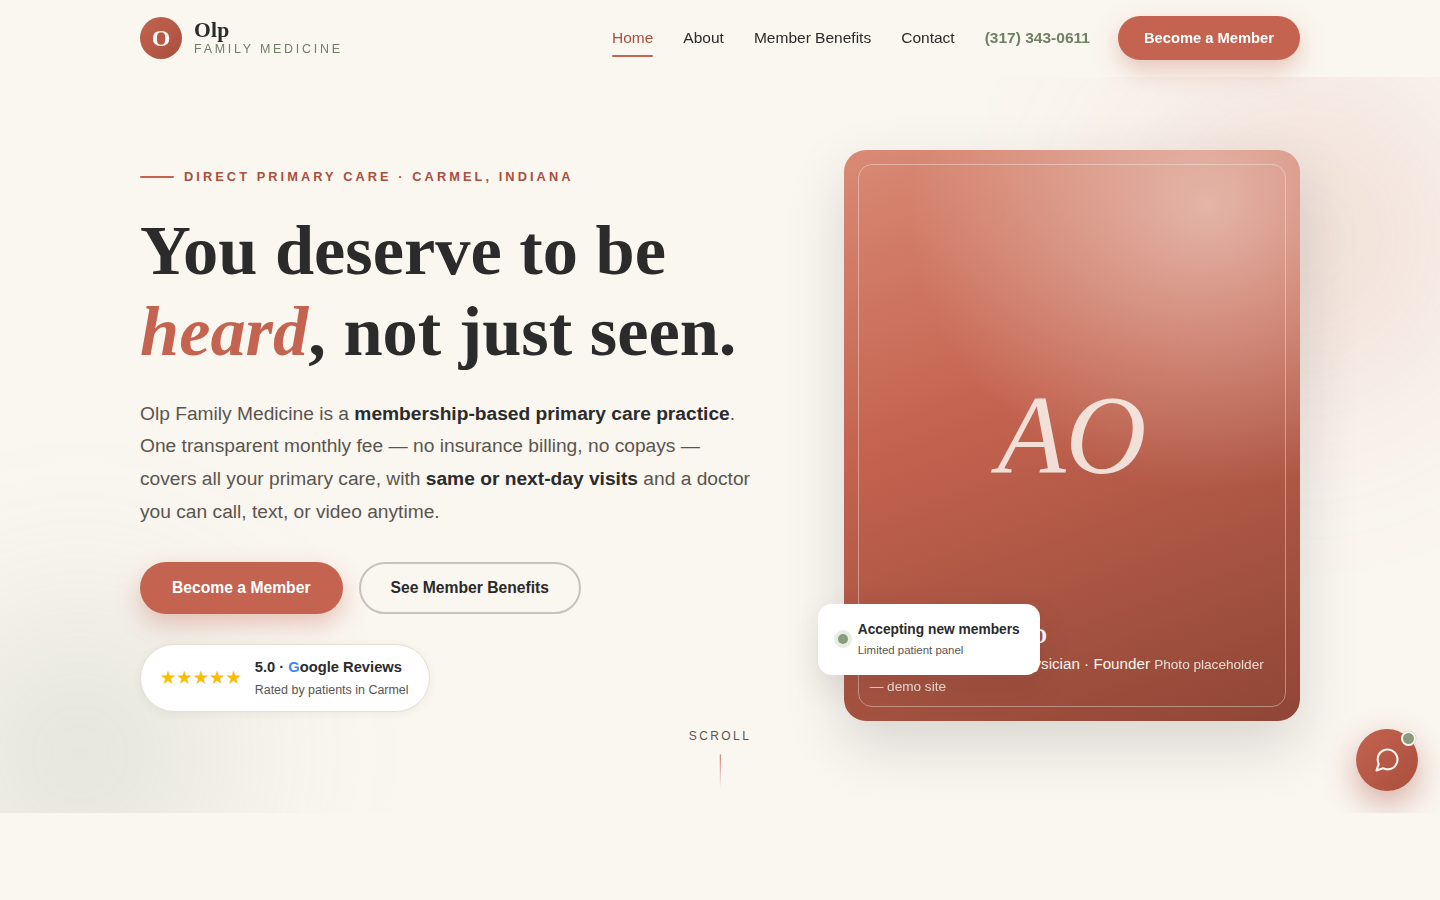
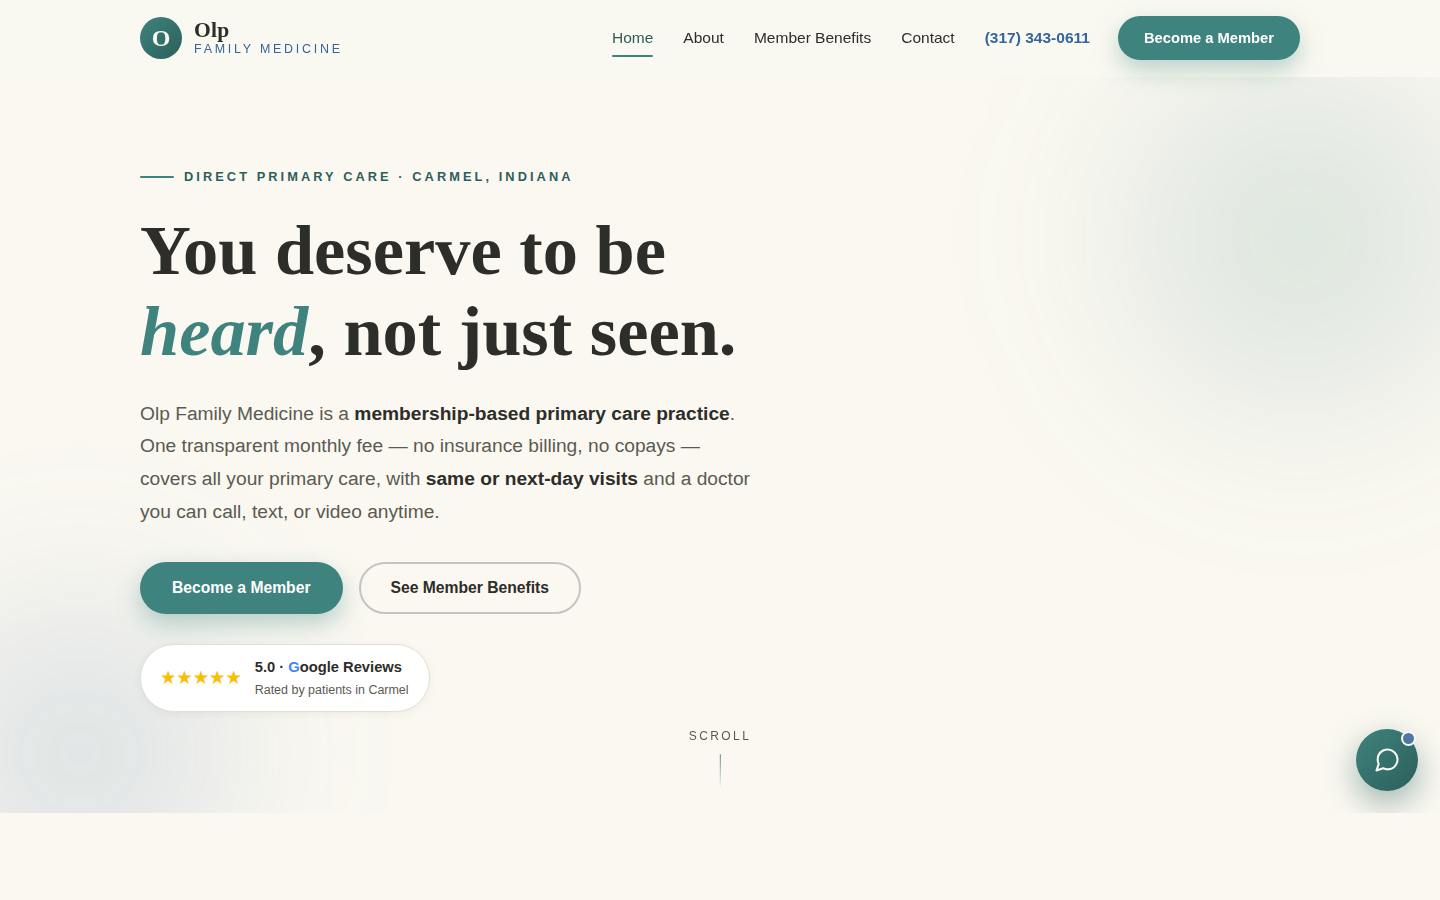
Rebrand demo to the practice's real palette
Colors extracted from olpfamilymedicine.com's Squarespace theme:
teal accent, steel-blue dark accent, soft gold highlights, warm
charcoal/cream neutrals. Body font switched to Open Sans to match
the brand; serif headings kept. README screenshot refreshed.

Claude-Session: https://claude.ai/code/session_01J4TR2SDL7TBfnegVc8ipSi

diff --git a/olp-demo/css/styles.css b/olp-demo/css/styles.css
@@ -1,21 +1,21 @@
 /* ==========================================================================
    Olp Family Medicine — Pavlina demo site
-   Palette: terracotta #C4634F · cream #FAF6F0 · charcoal #2B2B2B · sage #8A9B7E
+   Palette (from olpfamilymedicine.com brand): teal #3E837E · steel blue #34659B · soft gold #EDD286 · warm charcoal #2D2D2A · warm cream #FAF8F1
    ========================================================================== */
 
 :root {
-  --terracotta: #C4634F;
-  --terracotta-dark: #A94F3D;
-  --terracotta-soft: #F3E2DC;
-  --cream: #FAF6F0;
-  --cream-deep: #F2EADF;
-  --charcoal: #2B2B2B;
-  --ink-soft: #5A554E;
-  --sage: #8A9B7E;
-  --sage-dark: #6F8163;
-  --sage-soft: #E8ECE3;
+  --terracotta: #3E837E;
+  --terracotta-dark: #2C5F5A;
+  --terracotta-soft: #DEEDEB;
+  --cream: #FAF8F1;
+  --cream-deep: #F0EBDF;
+  --charcoal: #2D2D2A;
+  --ink-soft: #5B5A52;
+  --sage: #4E77A8;
+  --sage-dark: #34659B;
+  --sage-soft: #E4EBF3;
   --white: #FFFFFF;
-  --border: #E7DED2;
+  --border: #E3DFD2;
   --gold-star: #FBBC04;
   --shadow-sm: 0 2px 10px rgba(43, 43, 43, 0.06);
   --shadow-md: 0 12px 32px rgba(43, 43, 43, 0.10);
@@ -23,7 +23,7 @@
   --radius: 14px;
   --radius-lg: 22px;
   --font-serif: "Cormorant Garamond", "Libre Caslon Text", Georgia, serif;
-  --font-sans: "Inter", -apple-system, BlinkMacSystemFont, "Segoe UI", sans-serif;
+  --font-sans: "Open Sans", "Inter", -apple-system, BlinkMacSystemFont, "Segoe UI", sans-serif;
   --header-h: 76px;
 }
 
@@ -104,7 +104,7 @@ a:hover { color: var(--terracotta-dark); }
 .btn-primary {
   background: var(--terracotta);
   color: var(--white);
-  box-shadow: 0 10px 24px rgba(196, 99, 79, 0.35);
+  box-shadow: 0 10px 24px rgba(62, 131, 126, 0.35);
 }
 .btn-primary:hover { background: var(--terracotta-dark); color: var(--white); }
 
@@ -139,7 +139,7 @@ a:hover { color: var(--terracotta-dark); }
   position: sticky;
   top: 0;
   z-index: 200;
-  background: rgba(250, 246, 240, 0.92);
+  background: rgba(250, 248, 241, 0.92);
   backdrop-filter: blur(12px);
   -webkit-backdrop-filter: blur(12px);
   border-bottom: 1px solid transparent;
@@ -301,14 +301,14 @@ a:hover { color: var(--terracotta-dark); }
   height: 560px;
   right: -140px;
   top: -120px;
-  background: radial-gradient(circle, rgba(196, 99, 79, 0.20), transparent 65%);
+  background: radial-gradient(circle, rgba(62, 131, 126, 0.20), transparent 65%);
 }
 .hero::after {
   width: 480px;
   height: 480px;
   left: -160px;
   bottom: -180px;
-  background: radial-gradient(circle, rgba(138, 155, 126, 0.25), transparent 65%);
+  background: radial-gradient(circle, rgba(78, 119, 168, 0.22), transparent 65%);
 }
 
 .hero-grid {
@@ -393,7 +393,7 @@ a:hover { color: var(--terracotta-dark); }
   aspect-ratio: 4 / 5;
   background:
     radial-gradient(120% 90% at 80% 10%, rgba(250, 246, 240, 0.5), transparent 55%),
-    linear-gradient(160deg, #D98A75 0%, var(--terracotta) 42%, #8F4636 100%);
+    linear-gradient(160deg, #8FC0BC 0%, var(--terracotta) 42%, #24504C 100%);
   box-shadow: var(--shadow-lg);
 }
 .portrait-card::after {
@@ -434,12 +434,12 @@ a:hover { color: var(--terracotta-dark); }
 .portrait-card.sage {
   background:
     radial-gradient(120% 90% at 80% 10%, rgba(250, 246, 240, 0.45), transparent 55%),
-    linear-gradient(160deg, #A7B69B 0%, var(--sage) 45%, #5C6E51 100%);
+    linear-gradient(160deg, #7FA3C9 0%, var(--sage) 45%, #24476E 100%);
 }
 .portrait-card.cream {
   background:
     radial-gradient(120% 90% at 20% 10%, rgba(255, 255, 255, 0.7), transparent 55%),
-    linear-gradient(160deg, #EFE3D2 0%, #DCC9AE 55%, #C0A987 100%);
+    linear-gradient(160deg, #F2E7CB 0%, #E8D49A 55%, #C9A95C 100%);
 }
 .portrait-card.cream .portrait-initials { color: rgba(90, 85, 78, 0.5); }
 .portrait-card.cream figcaption { color: var(--charcoal); }
@@ -696,12 +696,12 @@ a:hover { color: var(--terracotta-dark); }
 .split-visual.grad-terracotta {
   background:
     radial-gradient(100% 100% at 100% 0%, rgba(250, 246, 240, 0.4), transparent 55%),
-    linear-gradient(150deg, #DE9A85 0%, var(--terracotta) 55%, #93402F 100%);
+    linear-gradient(150deg, #8FC0BC 0%, var(--terracotta) 55%, #24504C 100%);
 }
 .split-visual.grad-sage {
   background:
     radial-gradient(100% 100% at 0% 0%, rgba(250, 246, 240, 0.45), transparent 55%),
-    linear-gradient(150deg, #B3C2A6 0%, var(--sage) 55%, #55684B 100%);
+    linear-gradient(150deg, #86AACD 0%, var(--sage) 55%, #274B72 100%);
 }
 .split-visual .visual-label {
   position: absolute;
@@ -807,12 +807,12 @@ a:hover { color: var(--terracotta-dark); }
   font-size: 1rem;
   flex: none;
 }
-.avatar.a1 { background: #C4634F; }
-.avatar.a2 { background: #8A9B7E; }
-.avatar.a3 { background: #B08968; }
+.avatar.a1 { background: #3E837E; }
+.avatar.a2 { background: #4E77A8; }
+.avatar.a3 { background: #C9A95C; }
 .avatar.a4 { background: #7D8CA3; }
-.avatar.a5 { background: #A9784F; }
-.avatar.a6 { background: #6F8163; }
+.avatar.a5 { background: #8A6D2F; }
+.avatar.a6 { background: #2E5988; }
 
 .review-top .who strong { display: block; font-size: 0.95rem; color: var(--charcoal); }
 .review-top .who span { font-size: 0.8rem; color: var(--ink-soft); }
@@ -858,7 +858,7 @@ a:hover { color: var(--terracotta-dark); }
   position: relative;
   background:
     radial-gradient(110% 140% at 90% 0%, rgba(250, 246, 240, 0.12), transparent 55%),
-    linear-gradient(140deg, #A94F3D 0%, var(--terracotta) 55%, #B4664F 100%);
+    linear-gradient(140deg, #2C5F5A 0%, var(--terracotta) 55%, #46908A 100%);
   color: var(--cream);
   text-align: center;
   padding: clamp(72px, 9vw, 110px) 0;
@@ -898,7 +898,7 @@ a:hover { color: var(--terracotta-dark); }
   border-radius: 50%;
   right: -160px;
   top: -220px;
-  background: radial-gradient(circle, rgba(196, 99, 79, 0.14), transparent 65%);
+  background: radial-gradient(circle, rgba(62, 131, 126, 0.14), transparent 65%);
   filter: blur(60px);
 }
 .page-hero h1 { font-size: clamp(2.4rem, 5vw, 3.6rem); margin-bottom: 18px; }
@@ -1003,8 +1003,8 @@ a:hover { color: var(--terracotta-dark); }
   font-style: italic;
   color: rgba(250, 246, 240, 0.9);
 }
-.team-card .team-visual.v-sage { background: linear-gradient(140deg, #A7B69B, var(--sage) 55%, #5C6E51); }
-.team-card .team-visual.v-clay { background: linear-gradient(140deg, #D8A18E, #B87A62 55%, #97503C); }
+.team-card .team-visual.v-sage { background: linear-gradient(140deg, #7FA3C9, var(--sage) 55%, #24476E); }
+.team-card .team-visual.v-clay { background: linear-gradient(140deg, #8FC0BC, #5FA09A 55%, #2C5F5A); }
 .team-card .team-body { padding: 30px 30px 34px; }
 .team-card h3 { margin-bottom: 4px; }
 .team-card .role {
@@ -1098,12 +1098,12 @@ a:hover { color: var(--terracotta-dark); }
 .addon-card.clay {
   background:
     radial-gradient(120% 110% at 100% 0%, rgba(250, 246, 240, 0.18), transparent 55%),
-    linear-gradient(150deg, #B4664F 0%, #9C4B37 100%);
+    linear-gradient(150deg, #46908A 0%, #2C5F5A 100%);
 }
 .addon-card.moss {
   background:
     radial-gradient(120% 110% at 0% 0%, rgba(250, 246, 240, 0.18), transparent 55%),
-    linear-gradient(150deg, #7D8F70 0%, #56684B 100%);
+    linear-gradient(150deg, #4E77A8 0%, #2E5988 100%);
 }
 .addon-card .pill {
   align-self: flex-start;
@@ -1252,7 +1252,7 @@ a:hover { color: var(--terracotta-dark); }
 .form-field textarea:focus {
   outline: none;
   border-color: var(--terracotta);
-  box-shadow: 0 0 0 3px rgba(196, 99, 79, 0.15);
+  box-shadow: 0 0 0 3px rgba(62, 131, 126, 0.15);
 }
 .form-note { font-size: 0.8rem; color: var(--ink-soft); margin-top: 14px; }
 
@@ -1276,9 +1276,9 @@ a:hover { color: var(--terracotta-dark); }
   position: relative;
   overflow: hidden;
   background:
-    linear-gradient(rgba(138, 155, 126, 0.12) 1px, transparent 1px),
-    linear-gradient(90deg, rgba(138, 155, 126, 0.12) 1px, transparent 1px),
-    linear-gradient(150deg, #EDE9E0 0%, #DFE4D7 100%);
+    linear-gradient(rgba(78, 119, 168, 0.10) 1px, transparent 1px),
+    linear-gradient(90deg, rgba(78, 119, 168, 0.10) 1px, transparent 1px),
+    linear-gradient(150deg, #EDE9E0 0%, #DCE4EA 100%);
   background-size: 44px 44px, 44px 44px, cover;
   border: 1px solid var(--border);
   display: grid;
@@ -1392,7 +1392,7 @@ a:hover { color: var(--terracotta-dark); }
   color: var(--cream);
   display: grid;
   place-items: center;
-  box-shadow: 0 12px 32px rgba(169, 79, 61, 0.45);
+  box-shadow: 0 12px 32px rgba(44, 95, 90, 0.45);
   transition: transform 0.25s ease, box-shadow 0.25s ease;
 }
 .aria-launcher:hover { transform: scale(1.07); }
@@ -1606,7 +1606,7 @@ a:hover { color: var(--terracotta-dark); }
 .aria-input-row input:focus {
   outline: none;
   border-color: var(--terracotta);
-  box-shadow: 0 0 0 3px rgba(196, 99, 79, 0.14);
+  box-shadow: 0 0 0 3px rgba(62, 131, 126, 0.14);
 }
 .aria-send {
   width: 46px;

diff --git a/olp-demo/benefits.html b/olp-demo/benefits.html
@@ -7,7 +7,7 @@
   <meta name="description" content="What your Olp Family Medicine membership includes: same-day visits, 30–60 minute appointments, direct access to your doctor, annual labs, and virtual visits — plus weight loss support and hormone therapy add-ons. Direct Primary Care in Carmel, IN." />
   <link rel="preconnect" href="https://fonts.googleapis.com" />
   <link rel="preconnect" href="https://fonts.gstatic.com" crossorigin />
-  <link href="https://fonts.googleapis.com/css2?family=Cormorant+Garamond:ital,wght@0,400;0,500;0,600;0,700;1,400;1,500;1,600&family=Inter:wght@400;500;600;700&display=swap" rel="stylesheet" />
+  <link href="https://fonts.googleapis.com/css2?family=Cormorant+Garamond:ital,wght@0,400;0,500;0,600;0,700;1,400;1,500;1,600&family=Open+Sans:wght@400;500;600;700&display=swap" rel="stylesheet" />
   <link rel="stylesheet" href="css/styles.css" />
   <script type="application/ld+json">
   {

diff --git a/olp-demo/index.html b/olp-demo/index.html
@@ -7,7 +7,7 @@
   <meta name="description" content="Olp Family Medicine is a membership-based Direct Primary Care practice in Carmel, Indiana. One transparent monthly fee, same-day visits, 30–60 minute appointments, and direct access to Dr. Ashlie Olp, MD. No insurance billing, no copays." />
   <link rel="preconnect" href="https://fonts.googleapis.com" />
   <link rel="preconnect" href="https://fonts.gstatic.com" crossorigin />
-  <link href="https://fonts.googleapis.com/css2?family=Cormorant+Garamond:ital,wght@0,400;0,500;0,600;0,700;1,400;1,500;1,600&family=Inter:wght@400;500;600;700&display=swap" rel="stylesheet" />
+  <link href="https://fonts.googleapis.com/css2?family=Cormorant+Garamond:ital,wght@0,400;0,500;0,600;0,700;1,400;1,500;1,600&family=Open+Sans:wght@400;500;600;700&display=swap" rel="stylesheet" />
   <link rel="stylesheet" href="css/styles.css" />
   <script type="application/ld+json">
   {

diff --git a/olp-demo/about.html b/olp-demo/about.html
@@ -7,7 +7,7 @@
   <meta name="description" content="Meet Dr. Ashlie Olp, MD — board-certified family physician, Carmel native, and marathon champion who founded Olp Family Medicine in 2017 after her own frustrating experience as a patient. Meet the team: Molly, NP and Candi, MA." />
   <link rel="preconnect" href="https://fonts.googleapis.com" />
   <link rel="preconnect" href="https://fonts.gstatic.com" crossorigin />
-  <link href="https://fonts.googleapis.com/css2?family=Cormorant+Garamond:ital,wght@0,400;0,500;0,600;0,700;1,400;1,500;1,600&family=Inter:wght@400;500;600;700&display=swap" rel="stylesheet" />
+  <link href="https://fonts.googleapis.com/css2?family=Cormorant+Garamond:ital,wght@0,400;0,500;0,600;0,700;1,400;1,500;1,600&family=Open+Sans:wght@400;500;600;700&display=swap" rel="stylesheet" />
   <link rel="stylesheet" href="css/styles.css" />
   <script type="application/ld+json">
   {

diff --git a/olp-demo/contact.html b/olp-demo/contact.html
@@ -7,7 +7,7 @@
   <meta name="description" content="Contact Olp Family Medicine in Carmel, Indiana. Call (317) 343-0611, email info@olpfamilymedicine.com, or visit us at 221 N Rangeline Rd, Carmel, IN 46032. Become a Direct Primary Care member today." />
   <link rel="preconnect" href="https://fonts.googleapis.com" />
   <link rel="preconnect" href="https://fonts.gstatic.com" crossorigin />
-  <link href="https://fonts.googleapis.com/css2?family=Cormorant+Garamond:ital,wght@0,400;0,500;0,600;0,700;1,400;1,500;1,600&family=Inter:wght@400;500;600;700&display=swap" rel="stylesheet" />
+  <link href="https://fonts.googleapis.com/css2?family=Cormorant+Garamond:ital,wght@0,400;0,500;0,600;0,700;1,400;1,500;1,600&family=Open+Sans:wght@400;500;600;700&display=swap" rel="stylesheet" />
   <link rel="stylesheet" href="css/styles.css" />
   <script type="application/ld+json">
   {

diff --git a/README.md b/README.md
@@ -47,7 +47,7 @@ Alternative deploys: drag the `olp-demo` folder onto [Netlify Drop](https://app.
 - Demo pricing and reviews are illustrative and labeled as such on the site.
 - The contact form and review button are intentionally non-functional (demo).
 - Photos are CSS gradient placeholders — swap in real imagery for production.
-- Design: terracotta / cream / charcoal / sage palette, Cormorant Garamond + Inter type.
+- Design: matched to the practice's real brand (extracted from olpfamilymedicine.com) — teal / steel blue / soft gold with warm neutrals, Cormorant Garamond headings + Open Sans body.
 
 ---
 
